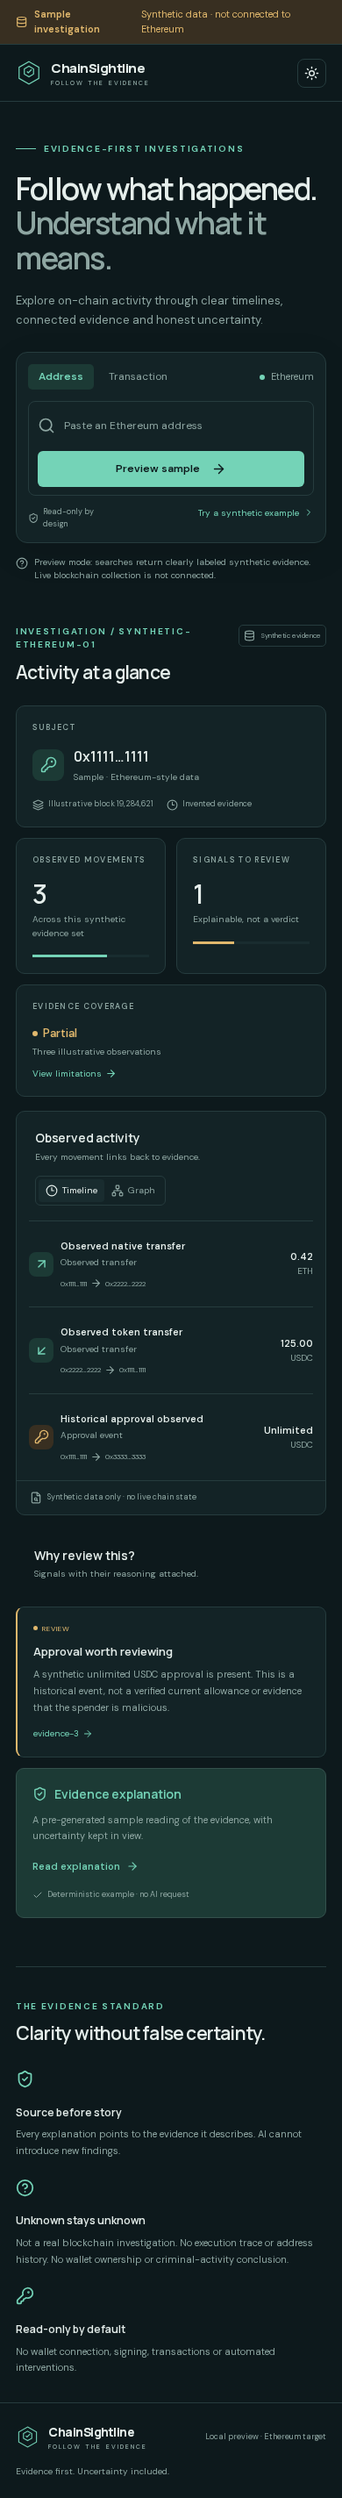
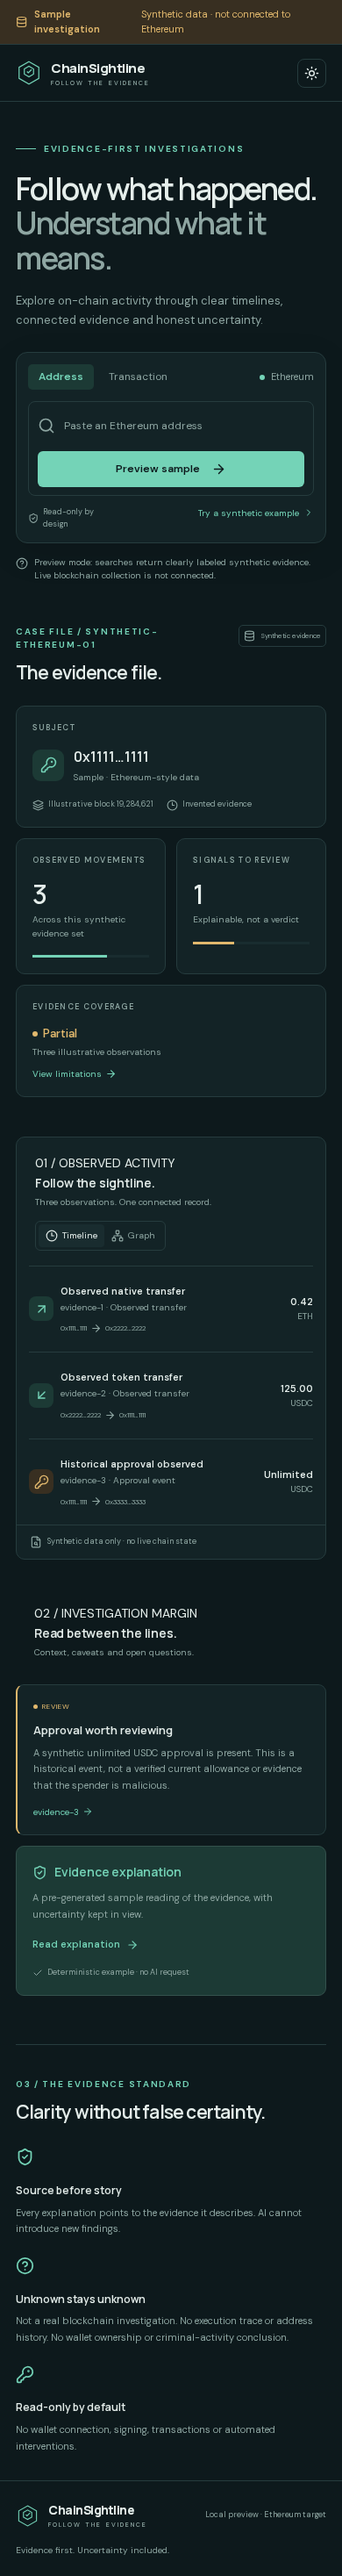
feat(web): redesign investigations as living evidence files
replace dashboard cards with an editorial case document
add a continuous evidence sightline and investigation margin
bundle a serif case-file voice and refresh responsive screenshots

diff --git a/apps/web/app/globals.css b/apps/web/app/globals.css
@@ -1,8 +1,11 @@
 
-:root{--bg:#f3f6f5;--surface:#fff;--surface-soft:#eaf0ee;--surface-hover:#e3ece9;--text:#152b2d;--muted:#647978;--border:#d5e0dc;--accent:#167765;--accent-soft:#dceee8;--accent-bright:#247f6b;--amber:#9c691e;--amber-soft:#f8eedb;--line:#bdd2ca;--shadow:0 12px 40px #173c3110}
+:root{--paper:#f4f1e9;--ink:#263a38;--paper-muted:#7c8378;--paper-edge:#d9d9cb;--paper-accent:#367869;--paper-shade:#e9ecdf;--bg:#f3f6f5;--surface:#fff;--surface-soft:#eaf0ee;--surface-hover:#e3ece9;--text:#152b2d;--muted:#647978;--border:#d5e0dc;--accent:#167765;--accent-soft:#dceee8;--accent-bright:#247f6b;--amber:#9c691e;--amber-soft:#f8eedb;--line:#bdd2ca;--shadow:0 12px 40px #173c3110}
 :root[data-theme="dark"]{--bg:#0d191c;--surface:#132326;--surface-soft:#192c2f;--surface-hover:#203639;--text:#e5eeeb;--muted:#8ea6a2;--border:#263c3e;--accent:#74d3b7;--accent-soft:#1c3a35;--accent-bright:#8ae4c8;--amber:#e1b86d;--amber-soft:#382f21;--line:#34514c;--shadow:0 12px 40px #00000018}
 *{box-sizing:border-box}html{scroll-behavior:smooth}body{margin:0;background:var(--bg);color:var(--text);font-family:var(--font-body),sans-serif;font-size:14px;line-height:1.55}button,input{font:inherit}button,a{-webkit-tap-highlight-color:transparent}button{cursor:pointer}a{color:inherit;text-decoration:none}button{color:inherit}button:focus-visible,a:focus-visible,input:focus-visible{outline:2px solid var(--accent);outline-offset:4px}button{transition:background .18s,border-color .18s,transform .18s}button:active{transform:translateY(1px)}.preview-banner{display:flex;align-items:center;justify-content:center;gap:8px;padding:8px 18px;background:var(--amber-soft);color:var(--amber);font-size:11px;border-bottom:1px solid var(--border)}.preview-banner strong{font-weight:600}.topbar{height:76px;border-bottom:1px solid var(--border);display:flex;align-items:center;justify-content:space-between;padding:0 max(28px,calc((100vw - 1240px)/2));gap:28px}.brand{display:flex;align-items:center;gap:10px;font-family:var(--font-heading),sans-serif;font-weight:750;font-size:17px;letter-spacing:-.5px;white-space:nowrap}.brand svg{width:33px;height:33px;fill:none;stroke:var(--accent);stroke-width:1.6}.brand-caption{display:block;font-family:var(--font-body),sans-serif;font-size:7px;font-weight:500;letter-spacing:2.05px;color:var(--muted);margin-top:1px}.topbar nav{display:flex;gap:30px;margin-left:60px;font-size:12px;color:var(--muted)}.topbar nav a:hover,.topbar nav a.active{color:var(--text)}.topbar nav a.active{position:relative}.topbar nav a.active:after{content:"";position:absolute;height:2px;background:var(--accent);left:0;right:0;bottom:-28px}.header-actions{display:flex;align-items:center;gap:17px}.local-badge{display:flex;gap:7px;align-items:center;color:var(--muted);font-size:11px}.local-badge>span,.network>span{width:6px;height:6px;border-radius:50%;background:var(--accent)}.icon-button{border:1px solid var(--border);border-radius:8px;background:transparent;display:grid;place-items:center;width:33px;height:33px}.icon-button:hover{background:var(--surface-soft)}main{max-width:1240px;margin:auto;padding:0 28px}.search-section{max-width:790px;padding:74px 0 58px}.eyebrow{color:var(--accent);font-size:10px;font-weight:650;letter-spacing:1.7px;display:flex;align-items:center;gap:9px}.eyebrow-line{width:23px;height:1px;background:var(--accent)}h1,h2,h3,h4,p{margin:0}h1{font-family:var(--font-heading),sans-serif;font-size:clamp(34px,4.2vw,52px);font-weight:600;letter-spacing:-2.2px;line-height:1.14;margin:18px 0 17px}h1 span{color:var(--muted)}.hero-copy{color:var(--muted);font-size:15px;max-width:540px;line-height:1.7}.search-form{margin-top:32px;background:var(--surface);border:1px solid var(--border);border-radius:13px;padding:18px;box-shadow:var(--shadow)}.search-top,.search-bottom{display:flex;align-items:center;justify-content:space-between;gap:16px}.subject-tabs{display:flex;gap:5px}.subject-tabs button{background:transparent;border:0;padding:5px 12px;border-radius:5px;color:var(--muted);font-size:12px}.subject-tabs button.selected{background:var(--accent-soft);color:var(--accent);font-weight:600}.network{display:flex;gap:7px;align-items:center;font-size:11px;color:var(--muted)}.search-input{display:flex;align-items:center;gap:12px;margin:13px 0 12px;border:1px solid var(--border);border-radius:8px;padding:7px 7px 7px 14px;color:var(--muted)}.search-input:focus-within{border-color:var(--accent)}.search-input input{min-width:0;flex:1;background:transparent;border:0;color:var(--text);font-size:13px;outline:none;height:36px}.search-input input::placeholder{color:var(--muted)}.search-input button{display:flex;align-items:center;justify-content:center;gap:13px;background:var(--accent);color:var(--bg);border:0;border-radius:6px;padding:11px 17px;font-size:12px;font-weight:600;white-space:nowrap}.search-input button:hover{background:var(--accent-bright)}.search-input button:disabled{opacity:.6}.search-bottom{color:var(--muted);font-size:10px}.search-bottom>span,.search-bottom button{display:flex;align-items:center;gap:5px}.search-bottom button{border:0;background:transparent;color:var(--accent);padding:0;font-size:10px}.demo-note{display:flex;align-items:center;gap:7px;font-size:11px;color:var(--muted);margin-top:14px}.error{color:var(--amber);margin-top:12px}.investigation-section{padding:8px 0 55px;scroll-margin-top:25px}.section-heading{display:flex;align-items:center;justify-content:space-between;margin-bottom:22px;gap:20px}.section-heading h2,.evidence-section h2{font-family:var(--font-heading),sans-serif;font-size:24px;font-weight:600;letter-spacing:-.8px;margin-top:7px}.synthetic-badge{display:inline-flex;align-items:center;gap:6px;border:1px solid var(--border);border-radius:5px;padding:5px 8px;font-size:10px;color:var(--muted);white-space:nowrap}.overview-grid{display:grid;grid-template-columns:1.6fr .9fr .9fr 1.25fr;gap:12px;margin-bottom:16px}.overview-grid>article{background:var(--surface);border:1px solid var(--border);border-radius:10px;padding:18px;min-width:0}.card-label{font-size:9px;letter-spacing:1.3px;color:var(--muted);font-weight:550;margin-bottom:13px}.subject-address{display:flex;align-items:center;gap:11px;font-family:var(--font-heading),sans-serif;font-weight:600;font-size:16px}.address-icon{display:grid;place-items:center;width:36px;height:36px;background:var(--accent-soft);border-radius:9px;color:var(--accent)}.subject-address small,.stat-card>span{display:block;font-family:var(--font-body),sans-serif;font-size:10px;font-weight:400;color:var(--muted);margin-top:3px}.subject-meta{display:flex;gap:17px;margin-top:17px;font-size:9px;color:var(--muted)}.subject-meta span{display:flex;align-items:center;gap:5px}.stat-card strong{font-family:var(--font-heading),sans-serif;font-size:30px;font-weight:550;line-height:1.2}.stat-rule{height:3px;background:var(--surface-soft);margin-top:17px}.stat-rule span{display:block;height:100%;width:64%;background:var(--accent)}.stat-rule.amber span{width:35%;background:var(--amber)}.coverage-card>div:not(.card-label){display:flex;align-items:center;gap:6px;color:var(--amber);font-weight:550;font-size:13px}.partial-dot{height:6px;width:6px;border-radius:50%;background:var(--amber)}.coverage-card p{font-size:10px;color:var(--muted);margin:3px 0 9px}.coverage-card button{display:flex;align-items:center;gap:4px;border:0;padding:0;background:transparent;color:var(--accent);font-size:10px}.workspace-grid{display:grid;grid-template-columns:minmax(0,1.8fr) minmax(260px,1fr);gap:16px}.activity-panel,.insights-panel{min-width:0}.activity-panel{background:var(--surface);border:1px solid var(--border);border-radius:10px;overflow:hidden}.panel-heading{padding:19px 21px 17px;display:flex;justify-content:space-between;align-items:center;gap:14px}.panel-heading h3,.explanation h3{font-family:var(--font-heading),sans-serif;font-weight:600;font-size:14px;letter-spacing:-.2px}.panel-heading p{font-size:10px;color:var(--muted);margin-top:3px}.view-tabs{display:flex;border:1px solid var(--border);padding:3px;border-radius:6px}.view-tabs button{display:flex;align-items:center;gap:5px;padding:5px 8px;border:0;border-radius:4px;background:transparent;font-size:10px;color:var(--muted)}.view-tabs button.selected{background:var(--surface-soft);color:var(--text)}.timeline{padding:0 21px 10px}.movement{width:100%;display:flex;align-items:center;text-align:left;gap:13px;padding:20px 0;border:0;border-top:1px solid var(--border);background:transparent}.movement:hover{background:var(--surface-soft)}.timeline-marker{align-self:stretch;position:relative;display:flex;justify-content:center;width:4px}.timeline-marker>span{width:5px;height:5px;background:var(--accent);border-radius:50%;margin-top:7px;z-index:1}.timeline-marker .approval-marker{background:var(--amber)}.timeline-marker i{position:absolute;top:17px;bottom:-27px;width:1px;background:var(--border)}.movement-icon{display:grid;place-items:center;flex-shrink:0;width:32px;height:32px;border-radius:8px;background:var(--accent-soft);color:var(--accent)}.movement:last-child .movement-icon{background:var(--amber-soft);color:var(--amber)}.movement-content{flex:1;min-width:0}.movement-title{font-size:12px;font-weight:550;display:block}.movement-title small{display:block;font-weight:400;color:var(--muted);font-size:10px;margin-top:2px}.movement-addresses{display:flex;align-items:center;gap:7px;color:var(--muted);font-size:10px;margin-top:10px;font-variant-numeric:tabular-nums}.movement-amount{text-align:right;font-size:12px;font-weight:550;white-space:nowrap}.movement-amount small{display:block;color:var(--muted);font-size:10px;font-weight:400}.movement>svg{color:var(--muted);flex-shrink:0}.panel-footer{border-top:1px solid var(--border);padding:12px 21px;color:var(--muted);font-size:9px;display:flex;align-items:center;gap:6px}.insights-panel{display:flex;flex-direction:column;gap:12px}.warning{background:var(--surface);border:1px solid var(--border);border-left:2px solid var(--amber);border-radius:9px;padding:18px;text-align:left}.warning:hover{border-color:var(--amber)}.warning-label{color:var(--amber);font-size:8px;letter-spacing:1.1px;display:flex;gap:5px;align-items:center}.warning-label>span{height:5px;width:5px;background:var(--amber);border-radius:50%}.warning-title{display:block;font-family:var(--font-heading),sans-serif;font-size:13px;font-weight:600;margin:10px 0 7px}.warning-reason{display:block;font-size:11px;line-height:1.7;color:var(--muted)}.evidence-link{display:flex;align-items:center;gap:4px;color:var(--accent);font-size:10px;margin-top:13px}.explanation{background:var(--accent-soft);border:1px solid var(--line);border-radius:9px;padding:18px;flex:1}.explanation-heading{display:flex;align-items:center;gap:8px;color:var(--accent);margin-bottom:9px}.explanation>p{font-size:11px;color:var(--muted);line-height:1.7}.explanation>button{display:flex;align-items:center;gap:7px;border:0;padding:0;background:transparent;color:var(--accent);font-weight:550;font-size:11px;margin:17px 0}.explanation-body{margin:12px 0;font-size:11px}.explanation-body p{color:var(--muted);margin:7px 0 13px}.explanation-body strong{font-size:11px}.deterministic{display:flex;align-items:center;gap:5px;font-size:9px;color:var(--muted);margin-top:16px}.evidence-section{border-top:1px solid var(--border);padding:37px 0 43px;display:grid;grid-template-columns:1fr 2fr;gap:60px;scroll-margin-top:30px}.evidence-points{display:grid;grid-template-columns:repeat(3,1fr);gap:24px}.evidence-points svg{color:var(--accent)}.evidence-points h3{font-family:var(--font-heading),sans-serif;font-size:12px;font-weight:600;margin:12px 0 6px}.evidence-points p{font-size:11px;color:var(--muted);line-height:1.7}footer{border-top:1px solid var(--border);padding:24px max(28px,calc((100vw - 1240px)/2));display:flex;align-items:center;gap:30px}footer .brand{font-size:14px}footer .brand svg{width:27px;height:27px}footer p{font-size:10px;color:var(--muted);flex:1}footer>span{font-size:10px;color:var(--muted)}.graph{padding:10px 20px 18px}.graph svg{width:100%;height:auto;max-height:330px}.graph path{stroke:var(--accent);stroke-width:1.5;fill:none;opacity:.6}.graph circle{fill:var(--accent-soft);stroke:var(--accent);stroke-width:1}.graph text{fill:var(--text);font-family:var(--font-body),sans-serif;text-anchor:middle;font-size:10px}.graph p{text-align:center;color:var(--muted);font-size:10px}.evidence-drawer::backdrop{background:#06121499;backdrop-filter:blur(3px)}.evidence-drawer{position:fixed;inset:0 0 0 auto;margin:0;max-height:100vh;border:0;color:var(--text);background:var(--surface);padding:45px 30px;width:min(460px,100%);overflow:auto;box-shadow:-20px 0 60px #0002}.evidence-drawer h2{font-family:var(--font-heading),sans-serif;font-size:23px;line-height:1.3;margin:17px 0}.evidence-drawer>p{font-size:13px;color:var(--muted);margin:20px 0;line-height:1.8}.close{position:absolute;right:20px;top:20px}.evidence-drawer dl>div{border-top:1px solid var(--border);padding:14px 0;overflow-wrap:anywhere}.evidence-drawer dt{font-size:10px;color:var(--muted);margin-bottom:4px}.evidence-drawer dd{margin:0;font-size:12px}.drawer-note{padding:15px;background:var(--surface-soft);border-radius:8px;font-size:11px!important}.spin{animation:spin 1s linear infinite}@keyframes spin{to{transform:rotate(360deg)}}
 @media(min-width:1500px){.search-section{padding-top:95px;padding-bottom:75px}.topbar{height:85px}h1{font-size:58px}.overview-grid>article{padding:22px}.movement{padding-top:24px;padding-bottom:24px}}
 @media(max-width:950px){.overview-grid{grid-template-columns:1.5fr 1fr 1fr}.coverage-card{grid-column:1/-1}.topbar nav{margin-left:0}.evidence-section{grid-template-columns:1fr;gap:25px}.workspace-grid{grid-template-columns:1.5fr 1fr}.subject-meta{flex-direction:column;gap:5px}}
 @media(max-width:650px){.topbar{height:65px;padding:0 18px}.topbar nav{display:none}.local-badge{display:none}.brand{font-size:15px}.brand svg{width:30px;height:30px}main{padding:0 18px}.search-section{padding:46px 0 40px}h1{font-size:35px;letter-spacing:-1.5px}.hero-copy{font-size:13px}.search-form{padding:13px;margin-top:25px}.search-input{flex-wrap:wrap;padding:9px 10px;gap:8px}.search-input input{width:calc(100% - 35px);flex:auto;font-size:12px}.search-input button{width:100%;margin-top:3px}.search-bottom{align-items:flex-start;font-size:9px;gap:10px}.search-bottom>span{max-width:100px}.demo-note{font-size:10px;align-items:flex-start}.demo-note svg{flex-shrink:0;margin-top:2px}.section-heading{align-items:flex-start}.section-heading h2,.evidence-section h2{font-size:21px}.synthetic-badge{font-size:8px;padding:5px}.overview-grid{grid-template-columns:1fr 1fr}.subject-card{grid-column:1/-1}.subject-meta{flex-direction:row;gap:15px}.coverage-card{grid-column:1/-1}.workspace-grid{grid-template-columns:1fr}.panel-heading{align-items:flex-start;flex-direction:column}.timeline{padding:0 14px}.movement{gap:8px}.timeline-marker{display:none}.movement-icon{width:28px;height:28px}.movement-title{font-size:11px}.movement-addresses{font-size:8px;gap:4px}.movement-amount{font-size:11px}.movement>svg{display:none}.evidence-points{grid-template-columns:1fr;gap:22px}.evidence-section{padding-bottom:30px}footer{padding:22px 18px;flex-wrap:wrap;gap:15px}footer p{flex-basis:100%;order:3}footer>span{margin-left:auto;font-size:9px}.graph{padding:10px 0}.panel-footer{padding-left:15px}.evidence-drawer{padding:40px 23px}}
+.dossier{background:var(--paper);color:var(--ink);border:1px solid var(--paper-edge);padding:32px 38px 38px;position:relative;box-shadow:0 18px 60px #00000012}.dossier:before{content:"";position:absolute;top:0;bottom:0;left:24px;width:1px;background:var(--paper-edge)}.dossier .section-heading{border-bottom:1px solid var(--paper-edge);padding-bottom:22px;margin-bottom:0}.dossier .section-heading h2{font-family:var(--font-editorial),Georgia,serif;font-size:35px;font-weight:500;letter-spacing:-1px}.dossier .eyebrow,.dossier .chapter{font-size:9px;letter-spacing:1.4px;color:var(--paper-accent)}.dossier .chapter{display:block;margin-bottom:9px;font-weight:600}.dossier .overview-grid{border-bottom:1px solid var(--paper-edge);margin:0;grid-template-columns:1.6fr .8fr .8fr 1.25fr;gap:0}.dossier .overview-grid>article{border:0;border-right:1px solid var(--paper-edge);border-radius:0;background:transparent;padding:24px 22px}.dossier .overview-grid>article:first-child{padding-left:0}.dossier .overview-grid>article:last-child{border-right:0;padding-right:0}.dossier .card-label{color:var(--paper-muted);font-size:8px}.dossier .subject-address{font-family:var(--font-body),sans-serif;font-size:14px}.dossier .subject-address small,.dossier .stat-card>span,.dossier .subject-meta,.dossier .coverage-card p{color:var(--paper-muted)}.dossier .address-icon{background:transparent;color:var(--paper-accent);width:29px;height:29px;border:1px solid var(--paper-edge)}.dossier .stat-card strong{font-family:var(--font-editorial),Georgia,serif;font-size:38px;font-weight:500}.dossier .stat-rule{background:var(--paper-edge)}.dossier .stat-rule span{background:var(--paper-accent)}.dossier .stat-rule.amber span{background:var(--amber)}.dossier .synthetic-badge{border-color:var(--paper-edge);color:var(--paper-muted)}.dossier-grid{grid-template-columns:minmax(0,1.8fr) minmax(250px,.85fr);gap:38px;padding-top:29px}.dossier .activity-panel{background:transparent;border:0;border-radius:0;overflow:visible}.dossier .panel-heading{padding:0 0 19px;align-items:flex-start}.dossier .panel-heading h3{font-family:var(--font-editorial),Georgia,serif;font-size:23px;font-weight:500;letter-spacing:-.4px}.dossier .panel-heading p{color:var(--paper-muted);font-size:11px;margin-top:6px}.dossier .view-tabs{border-color:var(--paper-edge);margin-top:6px}.dossier .view-tabs button.selected{background:var(--paper-shade)}.dossier .timeline{padding:0;position:relative}.dossier .movement{border-top:1px solid var(--paper-edge);padding:25px 0;gap:16px}.dossier .movement:hover{background:var(--paper-shade)}.dossier .movement-icon{background:transparent;border:1px solid var(--paper-edge);color:var(--paper-accent);border-radius:50%;width:36px;height:36px}.dossier .movement:last-child .movement-icon{background:transparent;color:var(--amber)}.dossier .timeline-marker{width:7px}.dossier .timeline-marker>span{width:7px;height:7px;background:var(--paper-accent);margin-top:9px}.dossier .timeline-marker i{background:var(--paper-edge)}.dossier .movement-title{font-size:13px;font-weight:500}.dossier .movement-title small,.dossier .movement-addresses,.dossier .movement-amount small{color:var(--paper-muted)}.dossier .movement-addresses{font-size:10px;letter-spacing:.1px}.dossier .panel-footer{border-top:1px solid var(--paper-edge);padding:14px 0;color:var(--paper-muted)}.dossier .insights-panel{border-left:1px solid var(--paper-edge);padding-left:25px;gap:24px}.dossier .warning{background:transparent;border:0;border-top:1px solid var(--paper-edge);border-radius:0;padding:20px 0 0}.dossier .warning:hover{border-color:var(--amber)}.dossier .warning-title{font-family:var(--font-editorial),Georgia,serif;font-size:20px;font-weight:500}.dossier .warning-reason{color:var(--paper-muted);font-size:11px}.dossier .explanation{background:transparent;border:0;border-top:1px solid var(--paper-edge);border-radius:0;padding:22px 0 0}.dossier .explanation>p,.dossier .explanation-body p{color:var(--paper-muted)}.dossier .explanation-heading{color:var(--paper-accent)}.dossier .deterministic{color:var(--paper-muted)}.dossier .graph{padding-top:20px}.dossier .graph circle{fill:var(--paper-shade);stroke:var(--paper-accent)}.dossier .graph path{stroke:var(--paper-accent)}.dossier .graph text{fill:var(--ink)}.dossier .graph p{color:var(--paper-muted)}.dossier .coverage-card>div:not(.card-label){color:var(--amber)}.dossier .coverage-card button{color:var(--paper-accent)}
+@media(max-width:950px){.dossier{padding:25px 25px 30px}.dossier .overview-grid{grid-template-columns:1.5fr 1fr 1fr}.dossier .coverage-card{grid-column:1/-1;border-top:1px solid var(--paper-edge);border-right:0;padding-left:0;margin-top:4px}.dossier-grid{grid-template-columns:1.4fr 1fr;gap:25px}}
+@media(max-width:650px){.dossier{padding:20px 18px 24px}.dossier:before{left:8px}.dossier .section-heading{gap:12px}.dossier .section-heading h2{font-size:29px}.dossier .section-heading .synthetic-badge{max-width:100px;white-space:normal}.dossier .overview-grid{grid-template-columns:1fr 1fr}.dossier .subject-card{padding-left:0}.dossier .overview-grid>article{padding:19px 12px}.dossier .overview-grid>article:nth-child(2){border-right:0}.dossier .overview-grid>article:nth-child(3){border-top:1px solid var(--paper-edge);padding-left:0}.dossier .coverage-card{padding-left:0}.dossier-grid{grid-template-columns:1fr;gap:32px}.dossier .insights-panel{border-left:0;border-top:1px solid var(--paper-edge);padding:24px 0 0}.dossier .movement{gap:9px}.dossier .movement-addresses{font-size:8px}.dossier .panel-heading{flex-direction:column}.dossier .timeline-marker{display:flex}.dossier .movement-title{font-size:12px}}
 @media(prefers-reduced-motion:reduce){*{scroll-behavior:auto!important;animation:none!important;transition:none!important}}

diff --git a/apps/web/components/Workspace.tsx b/apps/web/components/Workspace.tsx
@@ -50,27 +50,27 @@ export function Workspace({ initial }: { initial: Investigation }) {
         <p id="preview-note" className="demo-note"><CircleHelp size={14}/> Preview mode: searches return clearly labeled synthetic evidence. Live blockchain collection is not connected.</p>
       </section>
       <section id="investigation" className="investigation-section">
-        <div className="section-heading"><div><div className="eyebrow">INVESTIGATION / {investigation.id.toUpperCase()}</div><h2>Activity at a glance</h2></div><span className="synthetic-badge"><Database size={13}/> Synthetic evidence</span></div>
+        <div className="section-heading"><div><div className="eyebrow">CASE FILE / {investigation.id.toUpperCase()}</div><h2>The evidence file.</h2></div><span className="synthetic-badge"><Database size={13}/> Synthetic evidence</span></div>
         <div className="overview-grid">
           <article className="subject-card"><div className="card-label">SUBJECT</div><div className="subject-address"><span className="address-icon"><KeyRound size={19}/></span><span>{shorten(investigation.subject)}<small>Sample · Ethereum-style data</small></span></div><div className="subject-meta"><span><Layers3 size={13}/> Illustrative block {investigation.blockNumber}</span><span><Clock3 size={13}/> Invented evidence</span></div></article>
           <article className="stat-card"><div className="card-label">OBSERVED MOVEMENTS</div><strong>{investigation.movements.length}</strong><span>Across this synthetic evidence set</span><div className="stat-rule"><span/></div></article>
           <article className="stat-card"><div className="card-label">SIGNALS TO REVIEW</div><strong>{investigation.warnings.length}</strong><span>Explainable, not a verdict</span><div className="stat-rule amber"><span/></div></article>
           <article className="coverage-card"><div className="card-label">EVIDENCE COVERAGE</div><div><span className="partial-dot"/> Partial</div><p>{investigation.coverage.summary}</p><button onClick={() => document.getElementById("evidence")?.scrollIntoView({ behavior: "smooth" })}>View limitations <ArrowRight size={13}/></button></article>
         </div>
-        <div className="workspace-grid">
+        <div className="workspace-grid dossier-grid">
           <div className="activity-panel">
-            <div className="panel-heading"><div><h3>Observed activity</h3><p>Every movement links back to evidence.</p></div><div className="view-tabs"><button aria-pressed={tab === "timeline"} className={tab === "timeline" ? "selected" : ""} onClick={() => setTab("timeline")}><Clock3 size={14}/> Timeline</button><button aria-pressed={tab === "graph"} className={tab === "graph" ? "selected" : ""} onClick={() => setTab("graph")}><Network size={14}/> Graph</button></div></div>
-            {tab === "timeline" ? <div className="timeline">{investigation.movements.map((movement, index) => <button className="movement" key={movement.id} onClick={() => setSelected(movement)}><span className="timeline-marker"><span className={movement.kind === "approval" ? "approval-marker" : ""}/>{index < investigation.movements.length - 1 && <i/>}</span><span className="movement-icon">{movement.kind === "approval" ? <KeyRound size={17}/> : index === 0 ? <ArrowUpRight size={17}/> : <ArrowDownLeft size={17}/>}</span><span className="movement-content"><span className="movement-title">{movement.description}<small>{movement.kind === "approval" ? "Approval event" : "Observed transfer"}</small></span><span className="movement-addresses">{shorten(movement.from)} <ArrowRight size={13}/> {shorten(movement.to)}</span></span><span className="movement-amount">{movement.amount}<small>{movement.asset}</small></span><ChevronRight size={15}/></button>)}</div> : <div className="graph" role="region" aria-label="Synthetic movement graph"><svg viewBox="0 0 700 350" role="img" aria-label="Observed transfers between three synthetic addresses"><path d="M180 170 C270 40 420 40 520 145"/><path d="M180 190 C280 310 410 310 520 180"/><path d="M190 175 C300 180 370 175 510 170"/><circle cx="145" cy="180" r="49"/><circle cx="555" cy="165" r="49"/><circle cx="355" cy="75" r="38"/><text x="145" y="176">{shorten(investigation.movements[0]!.from)}</text><text x="145" y="196">Subject</text><text x="555" y="161">{shorten(investigation.movements[0]!.to)}</text><text x="555" y="181">Counterparty</text><text x="355" y="72">Token</text><text x="355" y="91">contract</text></svg><p>Illustrative graph · select Timeline to inspect individual evidence.</p></div>}
+            <div className="panel-heading"><div><span className="chapter">01 / OBSERVED ACTIVITY</span><h3>Follow the sightline.</h3><p>Three observations. One connected record.</p></div><div className="view-tabs"><button aria-pressed={tab === "timeline"} className={tab === "timeline" ? "selected" : ""} onClick={() => setTab("timeline")}><Clock3 size={14}/> Timeline</button><button aria-pressed={tab === "graph"} className={tab === "graph" ? "selected" : ""} onClick={() => setTab("graph")}><Network size={14}/> Graph</button></div></div>
+            {tab === "timeline" ? <div className="timeline">{investigation.movements.map((movement, index) => <button className="movement" key={movement.id} onClick={() => setSelected(movement)}><span className="timeline-marker"><span className={movement.kind === "approval" ? "approval-marker" : ""}/>{index < investigation.movements.length - 1 && <i/>}</span><span className="movement-icon">{movement.kind === "approval" ? <KeyRound size={17}/> : index === 0 ? <ArrowUpRight size={17}/> : <ArrowDownLeft size={17}/>}</span><span className="movement-content"><span className="movement-title">{movement.description}<small>{movement.evidenceId} · {movement.kind === "approval" ? "Approval event" : "Observed transfer"}</small></span><span className="movement-addresses">{shorten(movement.from)} <ArrowRight size={13}/> {shorten(movement.to)}</span></span><span className="movement-amount">{movement.amount}<small>{movement.asset}</small></span><ChevronRight size={15}/></button>)}</div> : <div className="graph" role="region" aria-label="Synthetic movement graph"><svg viewBox="0 0 700 350" role="img" aria-label="Observed transfers between three synthetic addresses"><path d="M180 170 C270 40 420 40 520 145"/><path d="M180 190 C280 310 410 310 520 180"/><path d="M190 175 C300 180 370 175 510 170"/><circle cx="145" cy="180" r="49"/><circle cx="555" cy="165" r="49"/><circle cx="355" cy="75" r="38"/><text x="145" y="176">{shorten(investigation.movements[0]!.from)}</text><text x="145" y="196">Subject</text><text x="555" y="161">{shorten(investigation.movements[0]!.to)}</text><text x="555" y="181">Counterparty</text><text x="355" y="72">Token</text><text x="355" y="91">contract</text></svg><p>Illustrative graph · select Timeline to inspect individual evidence.</p></div>}
             <div className="panel-footer"><FileSearch size={14}/> Synthetic data only · no live chain state</div>
           </div>
           <aside className="insights-panel">
-            <div className="panel-heading"><div><h3>Why review this?</h3><p>Signals with their reasoning attached.</p></div></div>
+            <div className="panel-heading"><div><span className="chapter">02 / INVESTIGATION MARGIN</span><h3>Read between the lines.</h3><p>Context, caveats and open questions.</p></div></div>
             {investigation.warnings.map(warning => <button className="warning" key={warning.id} onClick={() => setSelected(warning)}><span className="warning-label"><span/> REVIEW</span><span className="warning-title">{warning.title}</span><span className="warning-reason">{warning.reason}</span><span className="evidence-link">{warning.evidenceId} <ArrowRight size={12}/></span></button>)}
             <div className="explanation"><div className="explanation-heading"><ShieldCheck size={17}/><h3>Evidence explanation</h3></div><p>A pre-generated sample reading of the evidence, with uncertainty kept in view.</p>{showExplanation ? <div className="explanation-body"><p>{investigation.explanation.summary}</p><strong>What remains unknown</strong><p>{investigation.explanation.uncertainty}</p></div> : <button onClick={() => setShowExplanation(true)}>Read explanation <ArrowRight size={14}/></button>}<span className="deterministic"><Check size={12}/> Deterministic example · no AI request</span></div>
           </aside>
         </div>
       </section>
-      <section id="evidence" className="evidence-section"><div><div className="eyebrow">THE EVIDENCE STANDARD</div><h2>Clarity without false certainty.</h2></div><div className="evidence-points"><article><ShieldCheck size={21}/><h3>Source before story</h3><p>Every explanation points to the evidence it describes. AI cannot introduce new findings.</p></article><article><CircleHelp size={21}/><h3>Unknown stays unknown</h3><p>{investigation.coverage.limitations.join(". ")}.</p></article><article><KeyRound size={21}/><h3>Read-only by default</h3><p>No wallet connection, signing, transactions or automated interventions.</p></article></div></section>
+      <section id="evidence" className="evidence-section"><div><div className="eyebrow">03 / THE EVIDENCE STANDARD</div><h2>Clarity without false certainty.</h2></div><div className="evidence-points"><article><ShieldCheck size={21}/><h3>Source before story</h3><p>Every explanation points to the evidence it describes. AI cannot introduce new findings.</p></article><article><CircleHelp size={21}/><h3>Unknown stays unknown</h3><p>{investigation.coverage.limitations.join(". ")}.</p></article><article><KeyRound size={21}/><h3>Read-only by default</h3><p>No wallet connection, signing, transactions or automated interventions.</p></article></div></section>
     </main>
     <footer><Brand/><p>Evidence first. Uncertainty included.</p><span>Local preview · Ethereum target</span></footer>
     <dialog ref={dialogRef} className="evidence-drawer" aria-label="Evidence details" onClose={() => setSelected(null)} onClick={event => { if (event.target === event.currentTarget) setSelected(null); }}>{selected && <><button className="icon-button close" onClick={() => dialogRef.current?.close()} aria-label="Close evidence"><X size={19}/></button><div className="eyebrow">EVIDENCE DETAIL</div><h2>{"title" in selected ? selected.title : selected.description}</h2><span className="synthetic-badge"><Database size={13}/> Synthetic observation</span><p>{"reason" in selected ? selected.reason : selected.description}</p><dl><div><dt>Evidence reference</dt><dd>{selected.evidenceId}</dd></div><div><dt>Chain</dt><dd>Sample · Ethereum-style data</dd></div><div><dt>Coverage</dt><dd>Partial · synthetic</dd></div>{"from" in selected && <><div><dt>From</dt><dd>{selected.from}</dd></div><div><dt>To</dt><dd>{selected.to}</dd></div><div><dt>Amount</dt><dd>{selected.amount} {selected.asset}</dd></div></>}</dl><p className="drawer-note">This observation does not establish wallet ownership, intent or criminal activity.</p></>}</dialog>

diff --git a/apps/web/app/layout.tsx b/apps/web/app/layout.tsx
@@ -1,7 +1,8 @@
 import type { Metadata } from "next";
-import { DM_Sans, Manrope } from "next/font/google";
+import { DM_Sans, Manrope, Source_Serif_4 } from "next/font/google";
 import "./globals.css";
 const bodyFont = DM_Sans({ subsets: ["latin"], variable: "--font-body" });
 const headingFont = Manrope({ subsets: ["latin"], variable: "--font-heading" });
+const editorialFont = Source_Serif_4({ subsets: ["latin"], variable: "--font-editorial", style: ["normal", "italic"] });
 export const metadata: Metadata = { title: "ChainSightline — Follow the evidence", description: "Evidence-first blockchain investigations with clear timelines, explainable signals and honest uncertainty." };
-export default function RootLayout({ children }: Readonly<{ children: React.ReactNode }>) { return <html lang="en" data-theme="dark"><body className={`${bodyFont.variable} ${headingFont.variable}`}>{children}</body></html>; }
+export default function RootLayout({ children }: Readonly<{ children: React.ReactNode }>) { return <html lang="en" data-theme="dark"><body className={`${bodyFont.variable} ${headingFont.variable} ${editorialFont.variable}`}>{children}</body></html>; }

diff --git a/design_system/preferences.md b/design_system/preferences.md
@@ -7,4 +7,4 @@
 - Evidence and uncertainty must remain visible.
 - Initial dark navy and restrained teal identity is approved.
 - 2026-11-02: initial browser workspace implemented from these preferences.
-- Reference library `clotheshoesandwoes/web-refs` supplied for redesign inspiration. Proposed direction: an evidence dossier with a visible line of proof, deliberate typography and document hierarchy rather than more generic dashboard cards. Preserve ChainSightline identity; do not copy reference sites. No redesign approved or implemented yet.
+- Reference library `clotheshoesandwoes/web-refs` supplied for redesign inspiration. Proposed direction: an evidence dossier with a visible line of proof, deliberate typography and document hierarchy rather than more generic dashboard cards. Preserve ChainSightline identity; do not copy reference sites. Owner approved the Living Evidence File direction; implemented and browser-verified with warm editorial paper, continuous evidence line and investigation margin.

diff --git a/design_system/identity.md b/design_system/identity.md
@@ -1,6 +1,6 @@
 # Identity
 
-ChainSightline follows the evidence. Deep navy, quiet teal, compact Manrope headings and DM Sans body text create a professional investigative workspace. Evidence nodes and thin connecting lines are the brand's visual language.
+ChainSightline follows the evidence. The Living Evidence File is an editorial case document inside the deep-navy workspace: warm paper, ink, ruled lines, a continuous sightline and an investigation margin. Manrope and DM Sans support the workspace; Source Serif 4 gives the case file its editorial voice. Evidence nodes and thin connecting lines remain the brand's visual language.
 
 Dark is the default; light is a full alternate theme. Both use the same spacing and component hierarchy. Mobile restacks investigation panels rather than compressing them. Graph and timeline representations expose the same observations; evidence remains available without AI.
 

diff --git a/design_system/README.md b/design_system/README.md
@@ -6,7 +6,7 @@ A line of evidence through complex activity. Calm investigation, not a cyberpunk
 
 ## Reference direction
 
-The owner supplied `clotheshoesandwoes/web-refs`. Use its discipline: one subject-driven idea, coherent type and spacing, restrained motion, and screenshot verification. The proposed next direction is an evidence dossier, not a generic card dashboard. No redesign is approved yet.
+The owner supplied `clotheshoesandwoes/web-refs`. Use its discipline: one subject-driven idea, coherent type and spacing, restrained motion, and screenshot verification. The approved Living Evidence File direction is implemented: an editorial dossier, not a generic card dashboard.
 
 ## Product
 
